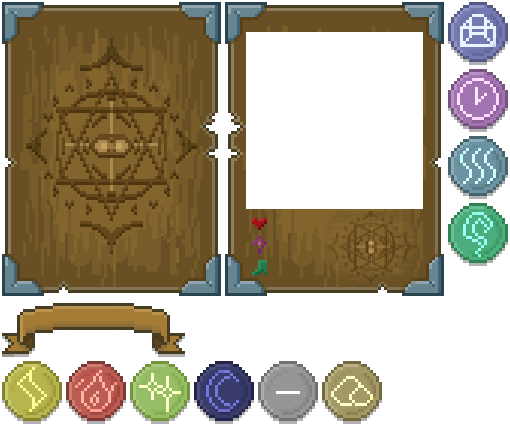
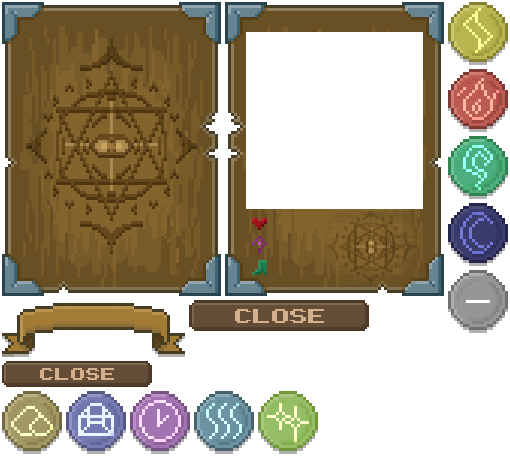
🔧 add: draw card button

diff --git a/src/ui/collection/container.ts b/src/ui/collection/container.ts
@@ -78,6 +78,7 @@ export class Collection extends PIXI.Container {
     const down = new PIXI.Sprite(this.store['collection-down.png'])
     const hr1 = new PIXI.Sprite(this.store['collection-hr.png'])
     const hr2 = new PIXI.Sprite(this.store['collection-hr.png'])
+    const drawBtn = new PIXI.Sprite(this.store['collection-draw.png'])
 
     bg.x = 0
     bg.y = 0
@@ -111,7 +112,7 @@ export class Collection extends PIXI.Container {
     this.addChild(hr2)
 
     this.addChild(this.cardContainer)
-    this._drawCards()
+    this._showCards()
 
     up.x = 400
     up.y = 35
@@ -149,9 +150,25 @@ export class Collection extends PIXI.Container {
         down.scale.x = 1
         down.scale.y = 1
       })
+
+    drawBtn.x = 700
+    drawBtn.y = 35
+    drawBtn.anchor.set(0.5)
+    drawBtn.interactive = true
+    drawBtn.buttonMode = true
+    this.addChild(drawBtn)
+    drawBtn.on('pointerdown', () => {
+        drawBtn.texture = this.store['collection-draw-focus.png']
+      }).on('pointerup', () => {
+        // route go -1
+        drawBtn.texture = this.store['collection-draw.png']
+      }).on('pointerupoutside', () => {
+        // route go -1
+        drawBtn.texture = this.store['collection-draw.png']
+      })
   }
 
-  protected _drawCards() {
+  protected _showCards() {
     const card = this.store['collection-card-front-1.png']
     const cardIcon = this.store['collection-icon.png']
     const shadow = this.store['collection-card-shadow.png']

diff --git a/src/ui/draw/index.ts b/src/ui/draw/index.ts
@@ -269,6 +269,7 @@ export class DropCard {
       }
     }
   }
+
   private *cardOut() {
     while (!this.cardName || !this.cardAttr) {
       yield
@@ -287,5 +288,26 @@ export class DropCard {
         this.cardAttr.scale.set((60 - k) / 30)
       }
     }
+    const close = new PIXI.Sprite(this.store['card-close.png'])
+    close.x = 400
+    close.y = 500
+    close.anchor.set(0.5)
+    this.container.addChild(close)
+    close.interactive = true
+    close.buttonMode = true
+    close.on('pointerdown', () => {
+      close.texture = this.store['card-close-focus.png']
+      }).on('pointerup', () => {
+        // route go -1
+        close.texture = this.store['card-close.png']
+        this._reset()
+      }).on('pointerupoutside', () => {
+        // route go -1
+        close.texture = this.store['card-close.png']
+      })
+  }
+
+  private _reset() {
+    return true
   }
 }
